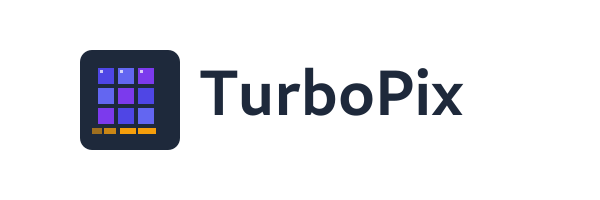
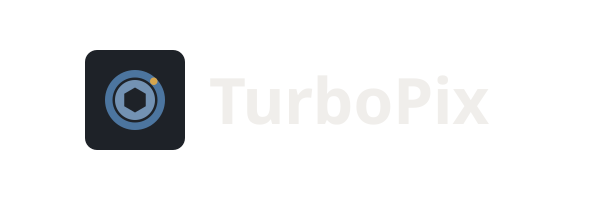
style: redesign branding assets to match modern theme

Changed region(s): [[0.12, 0.24, 0.78, 0.75], [0.27, 0.72, 0.3, 0.75]]

diff --git a/static/index.html b/static/index.html
@@ -6,8 +6,8 @@
     <title>TurboPix</title>
     <link rel="icon" type="image/svg+xml" href="/favicon.svg" />
     <link rel="manifest" href="/site.webmanifest" />
-    <meta name="theme-color" content="#f5f3ef" />
-    <meta name="theme-color" media="(prefers-color-scheme: dark)" content="#1c1c22" />
+    <meta name="theme-color" content="#f8f6f3" />
+    <meta name="theme-color" media="(prefers-color-scheme: dark)" content="#07090d" />
     <link
       rel="preload"
       href="/fonts/DMSans-Regular.woff2"
